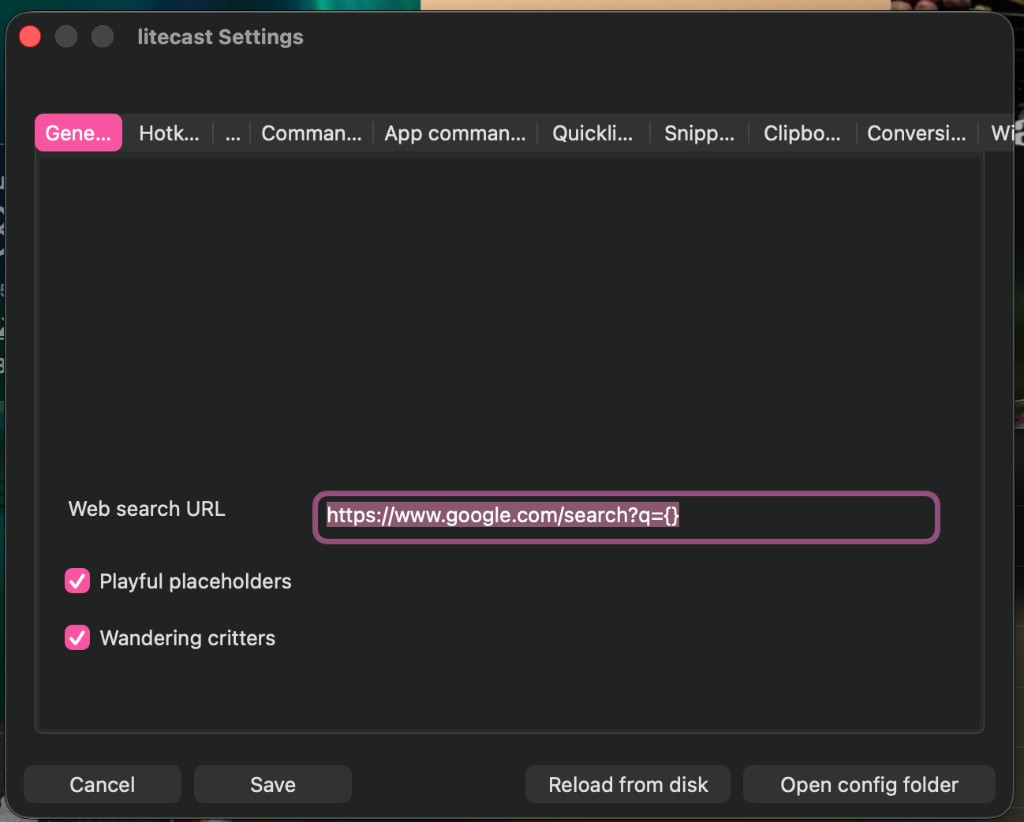
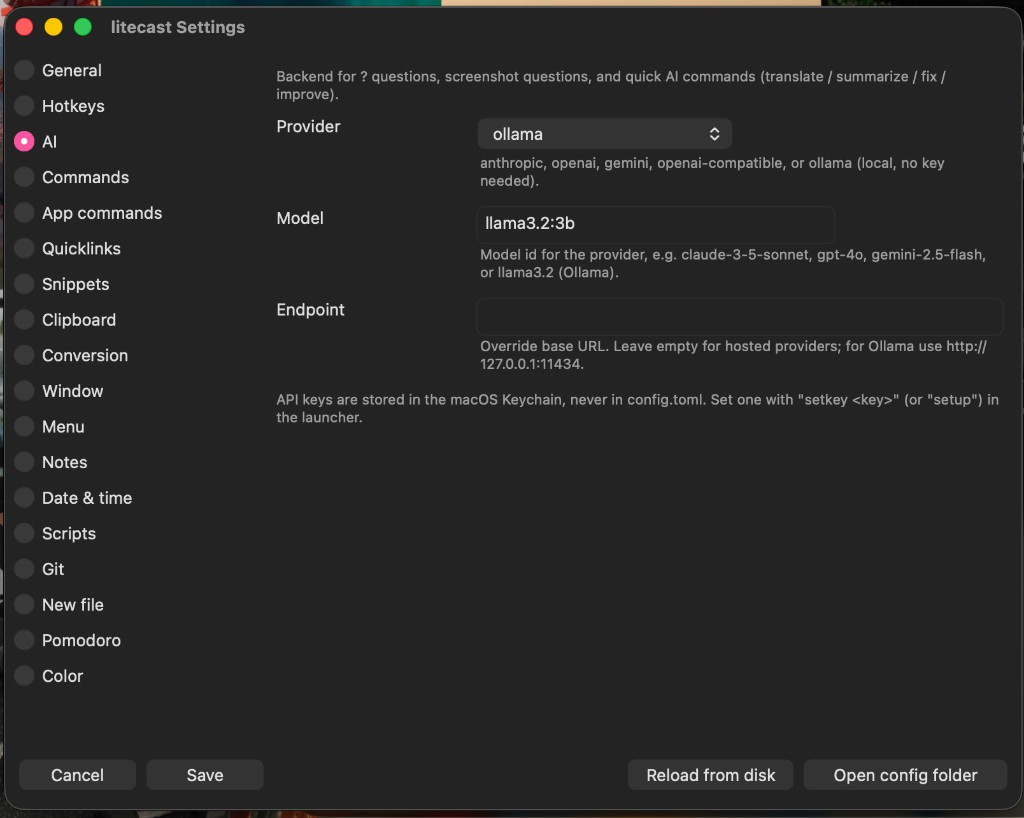
Update README screenshots

diff --git a/README.md b/README.md
@@ -14,19 +14,25 @@ toggles the panel; the Dock icon and menu bar are there for discoverability and 
 
 ## Screenshots
 
-The borderless search launcher with category filters and a web-search fallback:
+The borderless search launcher with category filters, showing app and file
+results for a fuzzy query:
 
-![litecast launcher panel with category filters and a web-search result](assets/screenshot-launcher.png)
+![litecast launcher panel with app search results for "arc" and category filters](assets/screenshot-launcher.png)
 
-The native, resizable Settings window — a tabbed sidebar covering every config
-section, with per-setting help captions:
+Ask the AI right from the launcher — type `? your question` to query your local
+Ollama model (or any configured provider):
 
-![litecast Settings window showing the General tab](assets/screenshot-settings.png)
+![litecast launcher offering "Ask Ollama (local)" for a "? hey how are you" query](assets/screenshot-ai-ask.png)
 
-The same Settings window with the sidebar layout and the App commands section
-selected:
+The AI answer renders inline, and you can keep typing to continue the chat with
+a follow-up prompt:
 
-![litecast Settings sidebar with the App commands section](assets/screenshot-app-commands.png)
+![litecast showing an AI answer with a follow-up prompt field](assets/screenshot-ai-answer.png)
+
+The native, resizable Settings window — here on the AI tab, with the provider
+set to Ollama and a local model:
+
+![litecast Settings window on the AI tab with provider ollama and model llama3.2:3b](assets/screenshot-settings.png)
 
 ## Goals
 